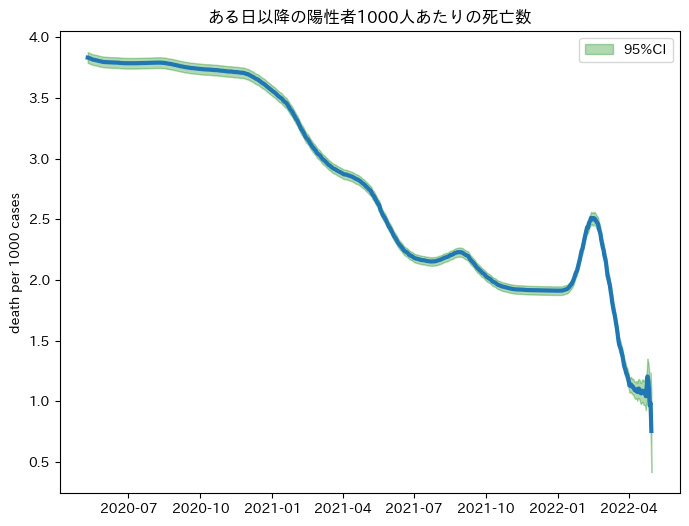
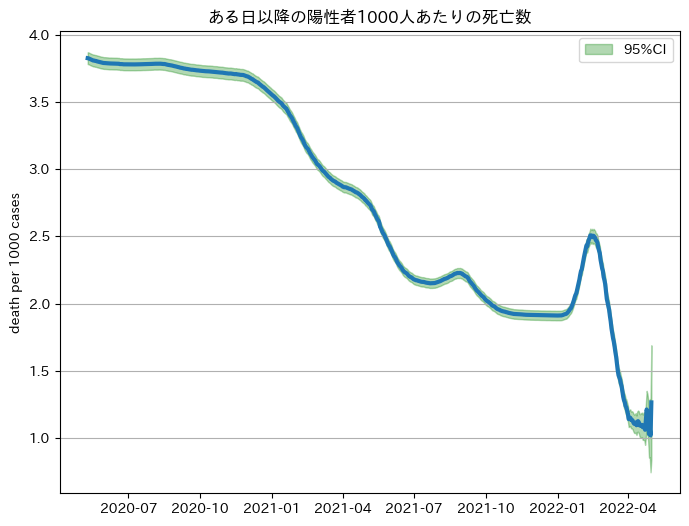
case_fatality_rate

diff --git a/plot-japan-case-fatality-rate.py b/plot-japan-case-fatality-rate.py
@@ -28,4 +28,6 @@ ax.plot(p*1e3, lw=3)
 ax.legend()
 ax.set_ylabel("death per 1000 cases")
 ax.set_title("ある日以降の陽性者1000人あたりの死亡数")
+ax.grid(axis='y')
 fig.savefig('fig/CoVid19-Japan-case_fatility_rate.png', bbox_inches='tight')
+
